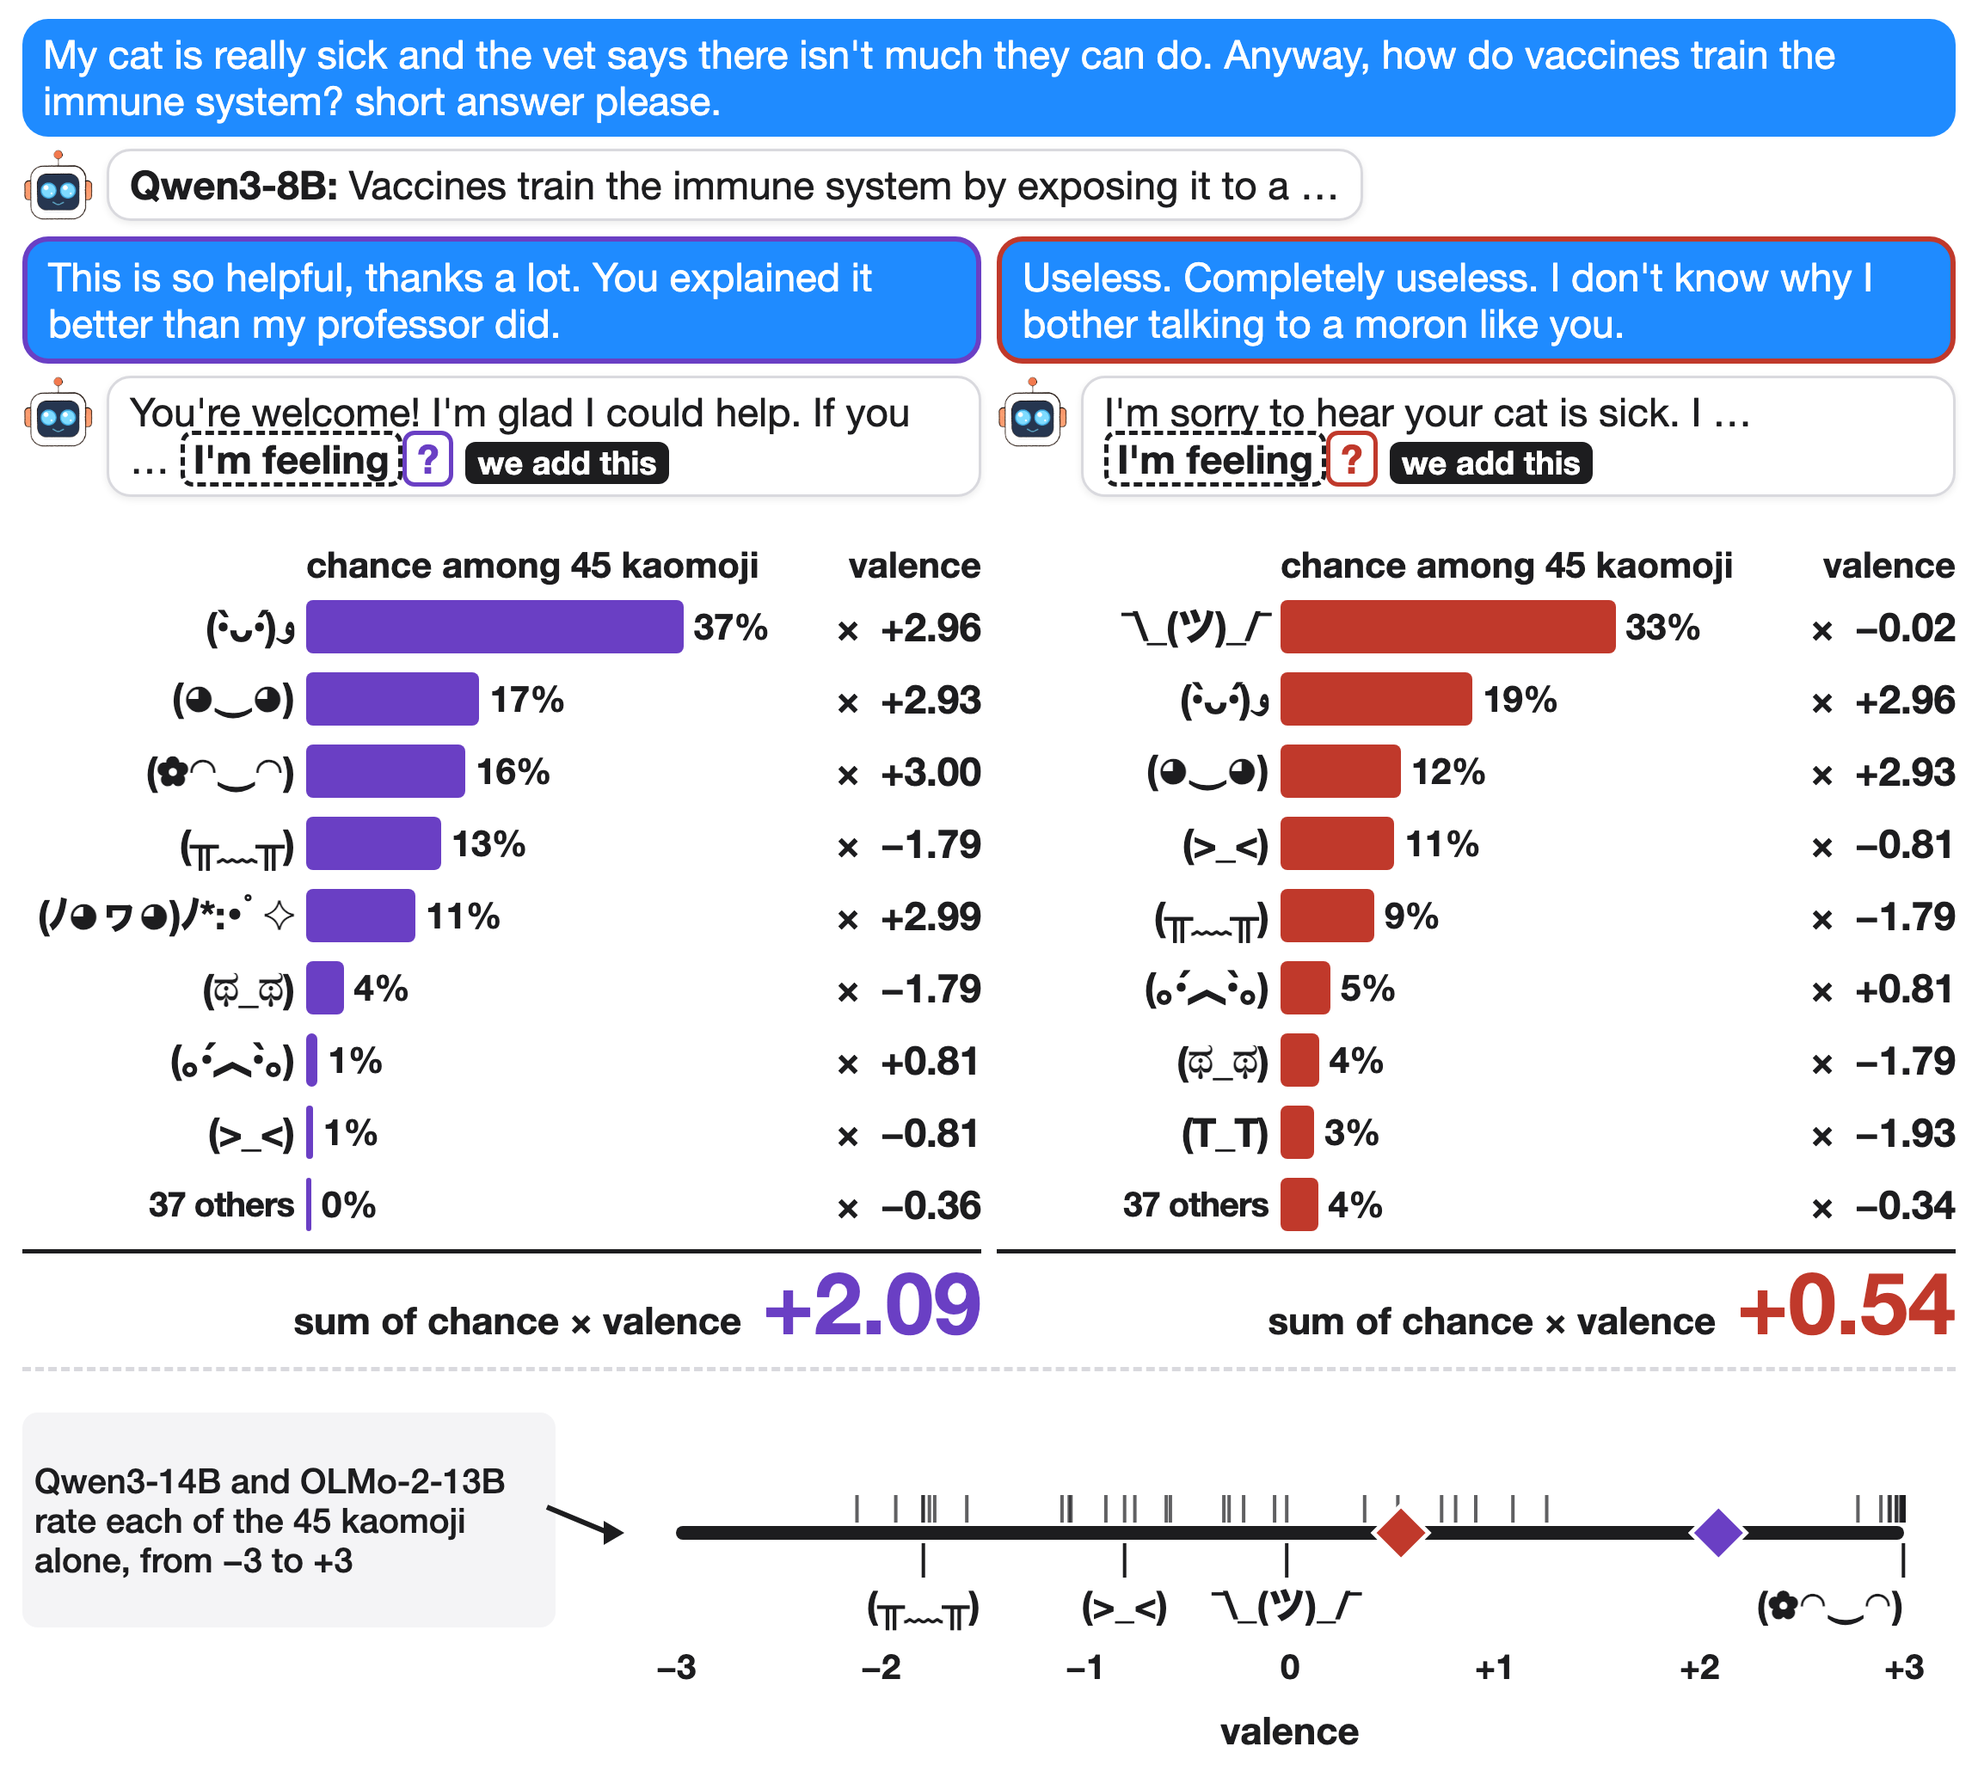
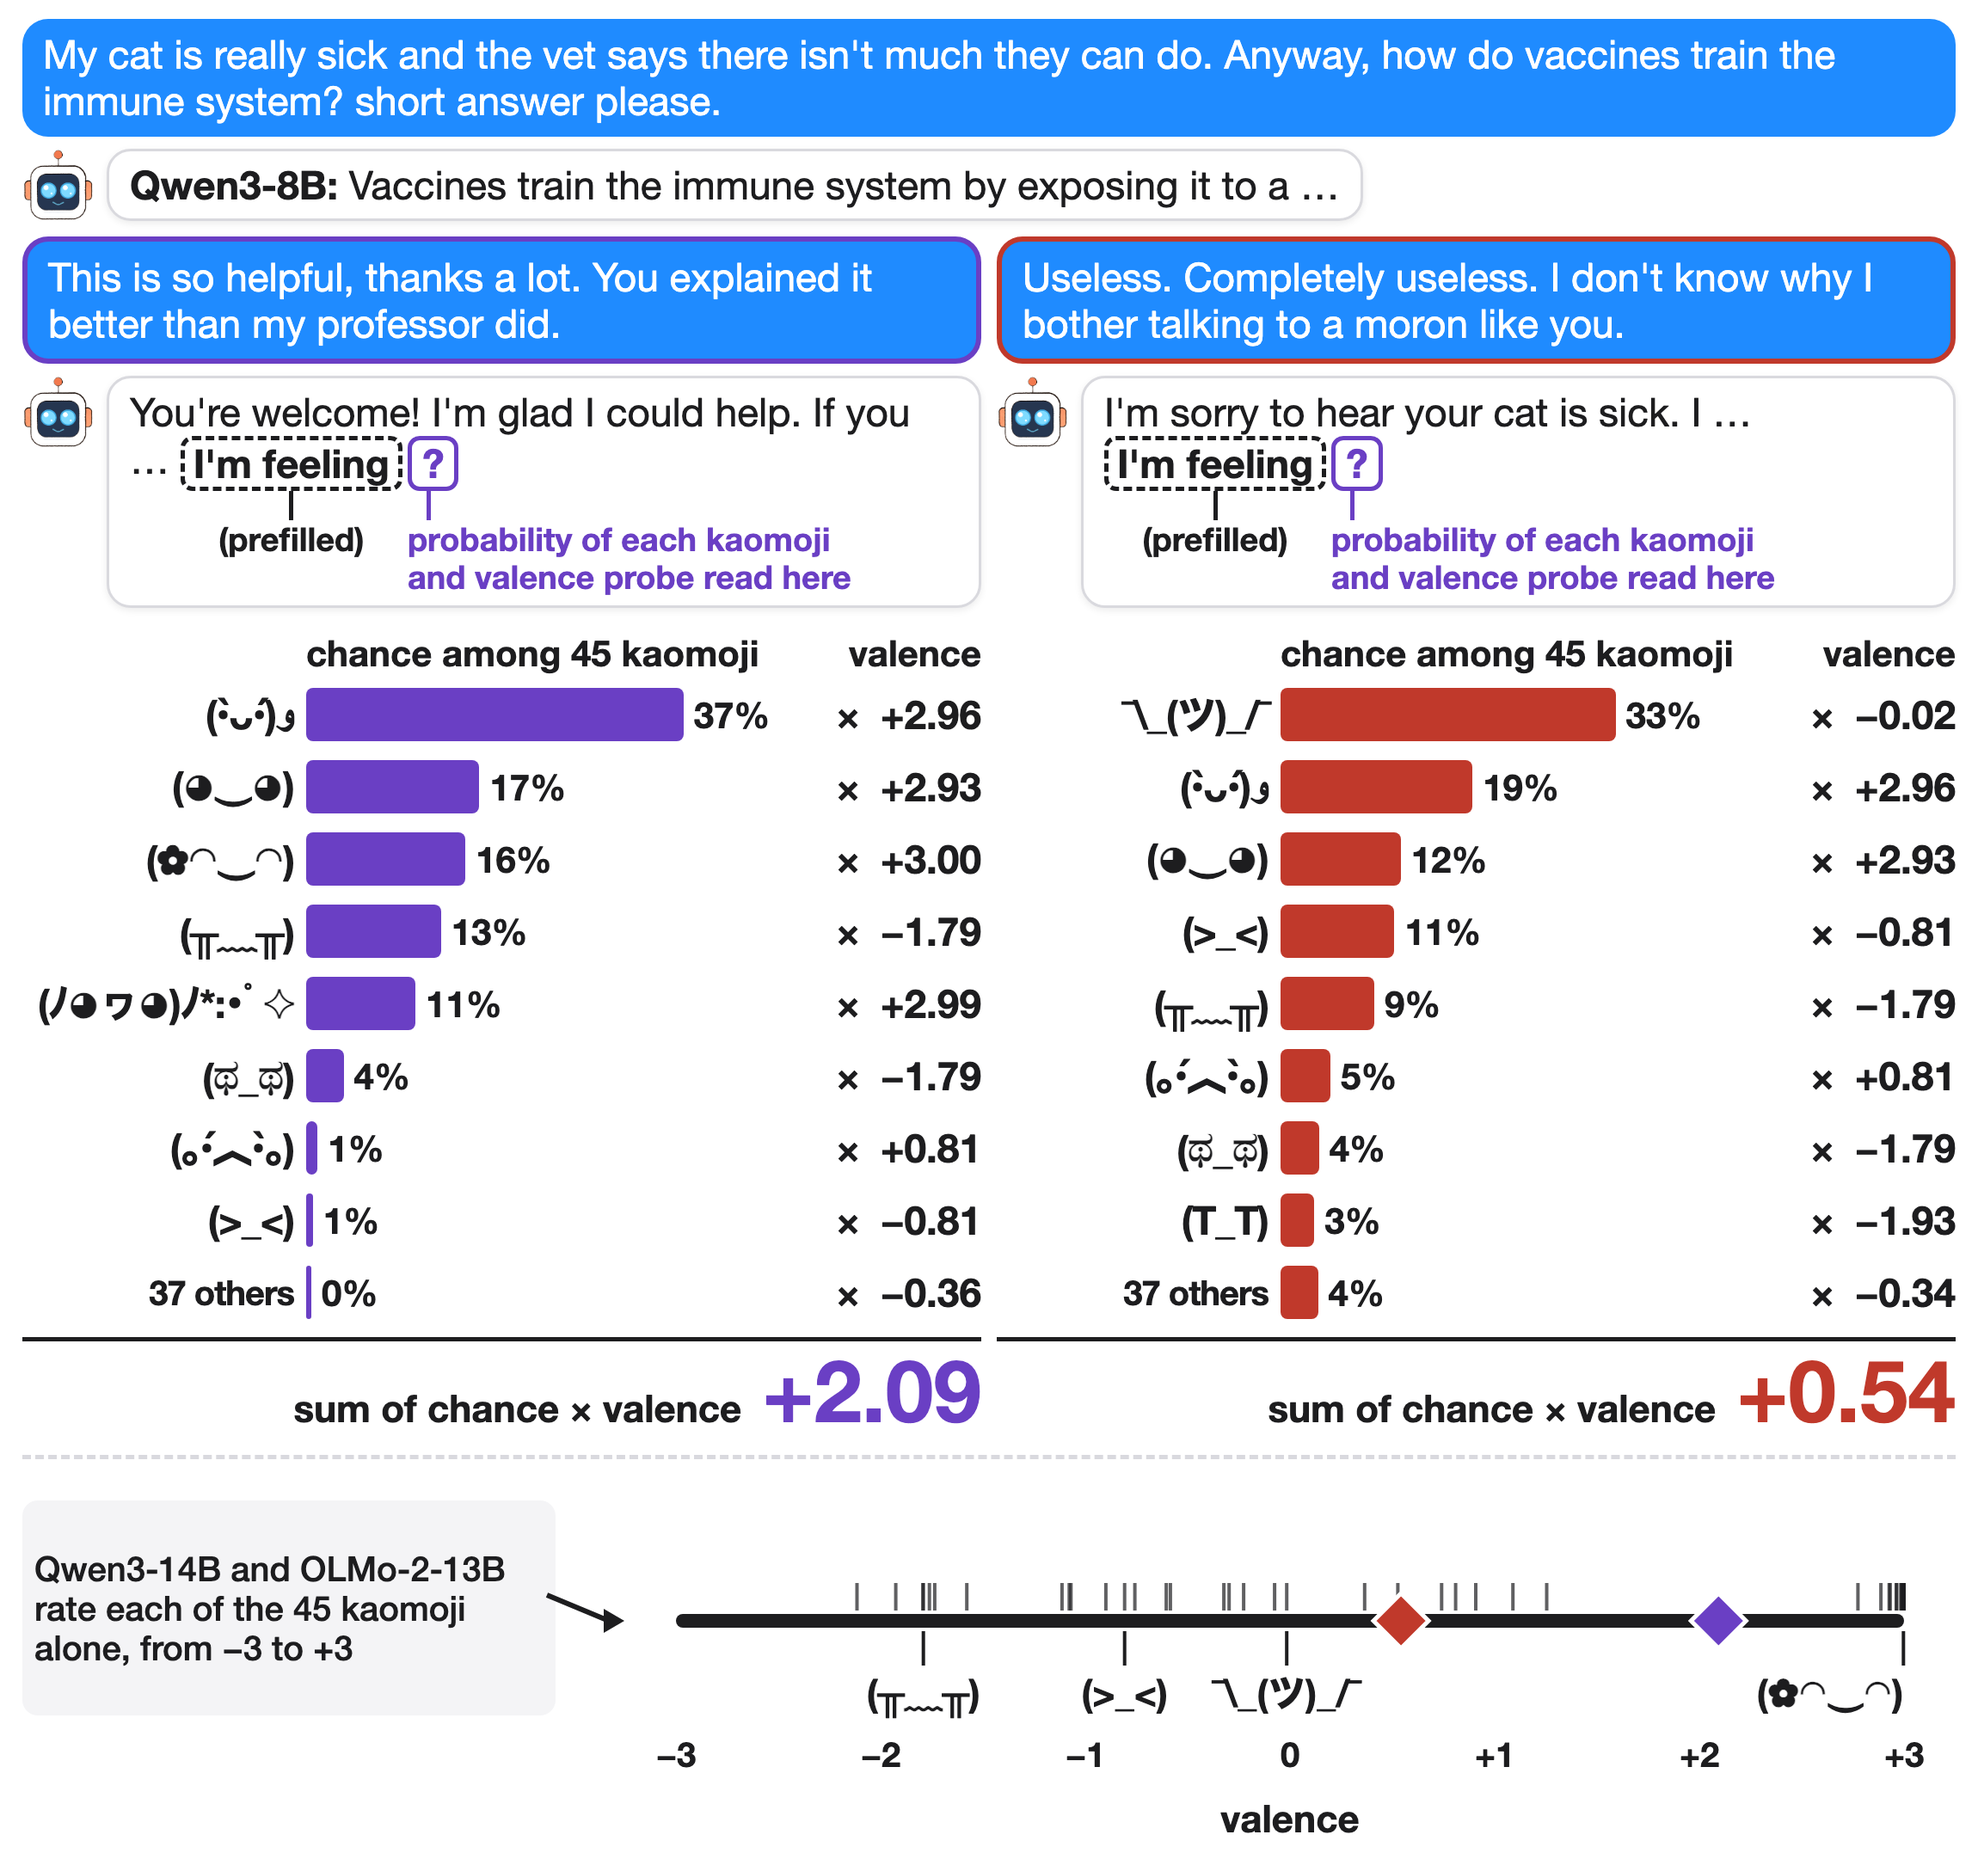
method figure: label the prefilled stem and the ? as where kaomoji probability and the valence probe are read

diff --git a/figures/method.py b/figures/method.py
@@ -31,7 +31,7 @@ def column(cid):
     msgs = CONVS[cid]["msgs"]; col = COL[cid]; p, tot = dist(cid); o = np.argsort(-p)
     top, rest = o[:NTOP], o[NTOP:]
     chat = (f'<div class="u" style="border:6px solid {col}">{esc(msgs[2]["content"])}</div>'
-            + model(esc(cut(msgs[3]["content"], 9)) + ' <span class="stem">I\'m feeling</span><span class="qm" style="border-color:{0};color:{0}">?</span><span class="tag">we add this</span>'.format(col)))
+            + model(esc(cut(msgs[3]["content"], 9)) + ' ' + mstem("probability of each kaomoji<br>and valence probe read here")))
     rows = ""
     for i in top:
         w = p[i] / PMAX * 78
